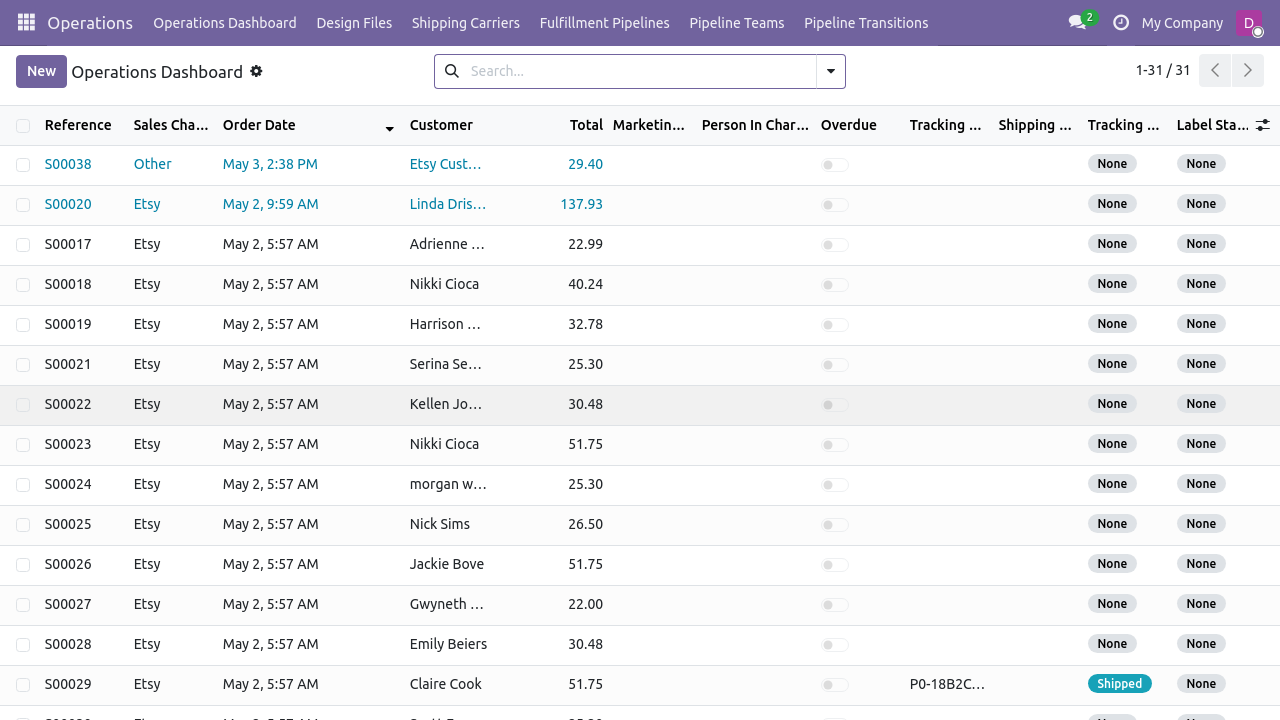
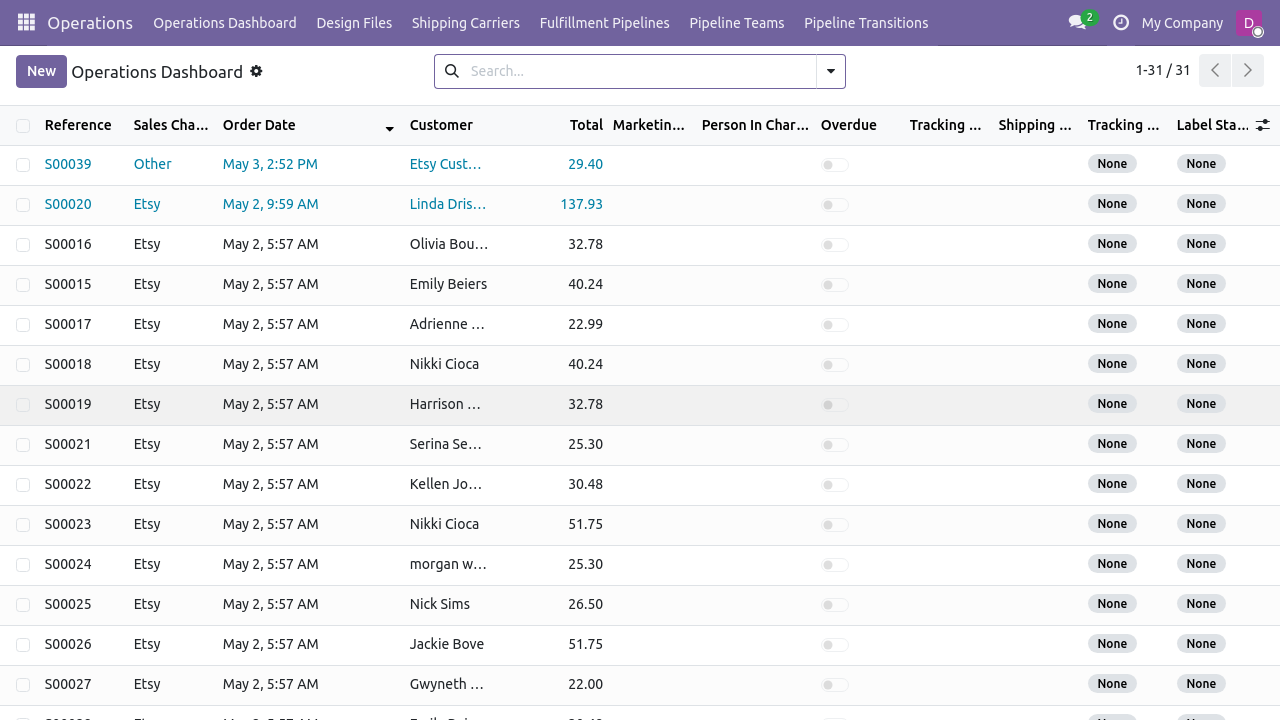
docs(MP006): refresh E2E demo run from build e1d55420531 + gitignore loop lock
- E2E_DEMO_RUN_2026-05-03.md: bump build hash, refreshed IDs from re-run
  (S00039, design.file id=7, address-change id=5) — cleanup left previous
  records, all 11/11 sections still PASS
- screenshots: re-captured 02_operations_dashboard.png + 02_order_form.png
- .gitignore: ignore .claude/scheduled_tasks.lock (runtime lock for /loop
  skill, not version-controlled state)

diff --git a/docs/E2E_DEMO_RUN_2026-05-03.md b/docs/E2E_DEMO_RUN_2026-05-03.md
@@ -2,7 +2,7 @@
 
 - **Target**: https://odoo.hatafax.com
 - **DB**: demo_esty
-- **Build**: 4c8ef9476c0
+- **Build**: e1d55420531
 - **Driver**: scripts/e2e_demo_email_fallback.py
 - **Result**: 11/11 sections PASS
 
@@ -13,10 +13,10 @@
 | 0.1 | PASS | XML-RPC up — server 19.0-20260324 | — |
 | 0.2 | PASS | cleanup: removed 1 email-log row(s), 1 order(s) | — |
 | 0.3 | PASS | manager landed on /odoo | docs/screenshots/2026-05-03/00_preflight_landing.png |
-| 1 | PASS | parsed order S00038 etsy_order_id=3708050001 total=29.4 partner=Etsy Customer | — |
-| 2 | PASS | order form + Operations Dashboard rendered (id=38) | docs/screenshots/2026-05-03/02_order_form.png | docs/screenshots/2026-05-03/02_operations_dashboard.png |
-| 3 | PASS | design.file id=6 state=approved | — |
-| 4 | PASS | address-change request id=4 state=approved (action_approve gated to group_ba_lead — direct state write used) | — |
+| 1 | PASS | parsed order S00039 etsy_order_id=3708050001 total=29.4 partner=Etsy Customer | — |
+| 2 | PASS | order form + Operations Dashboard rendered (id=39) | docs/screenshots/2026-05-03/02_order_form.png | docs/screenshots/2026-05-03/02_operations_dashboard.png |
+| 3 | PASS | design.file id=7 state=approved | — |
+| 4 | PASS | address-change request id=5 state=approved (action_approve gated to group_ba_lead — direct state write used) | — |
 | 5 | PASS | advanced to state id=2 (Đang Sản Xuất) — workaround until P2-03 + P1-AUTO-TX land | — |
 | 6 | PASS | line state=imported fulfillment.tn=9400111202555560000001 carrier=[1, 'USPS'] | — |
 | 7 | PASS | tracking_state=shipped shipping_date=2026-05-03 | — |
